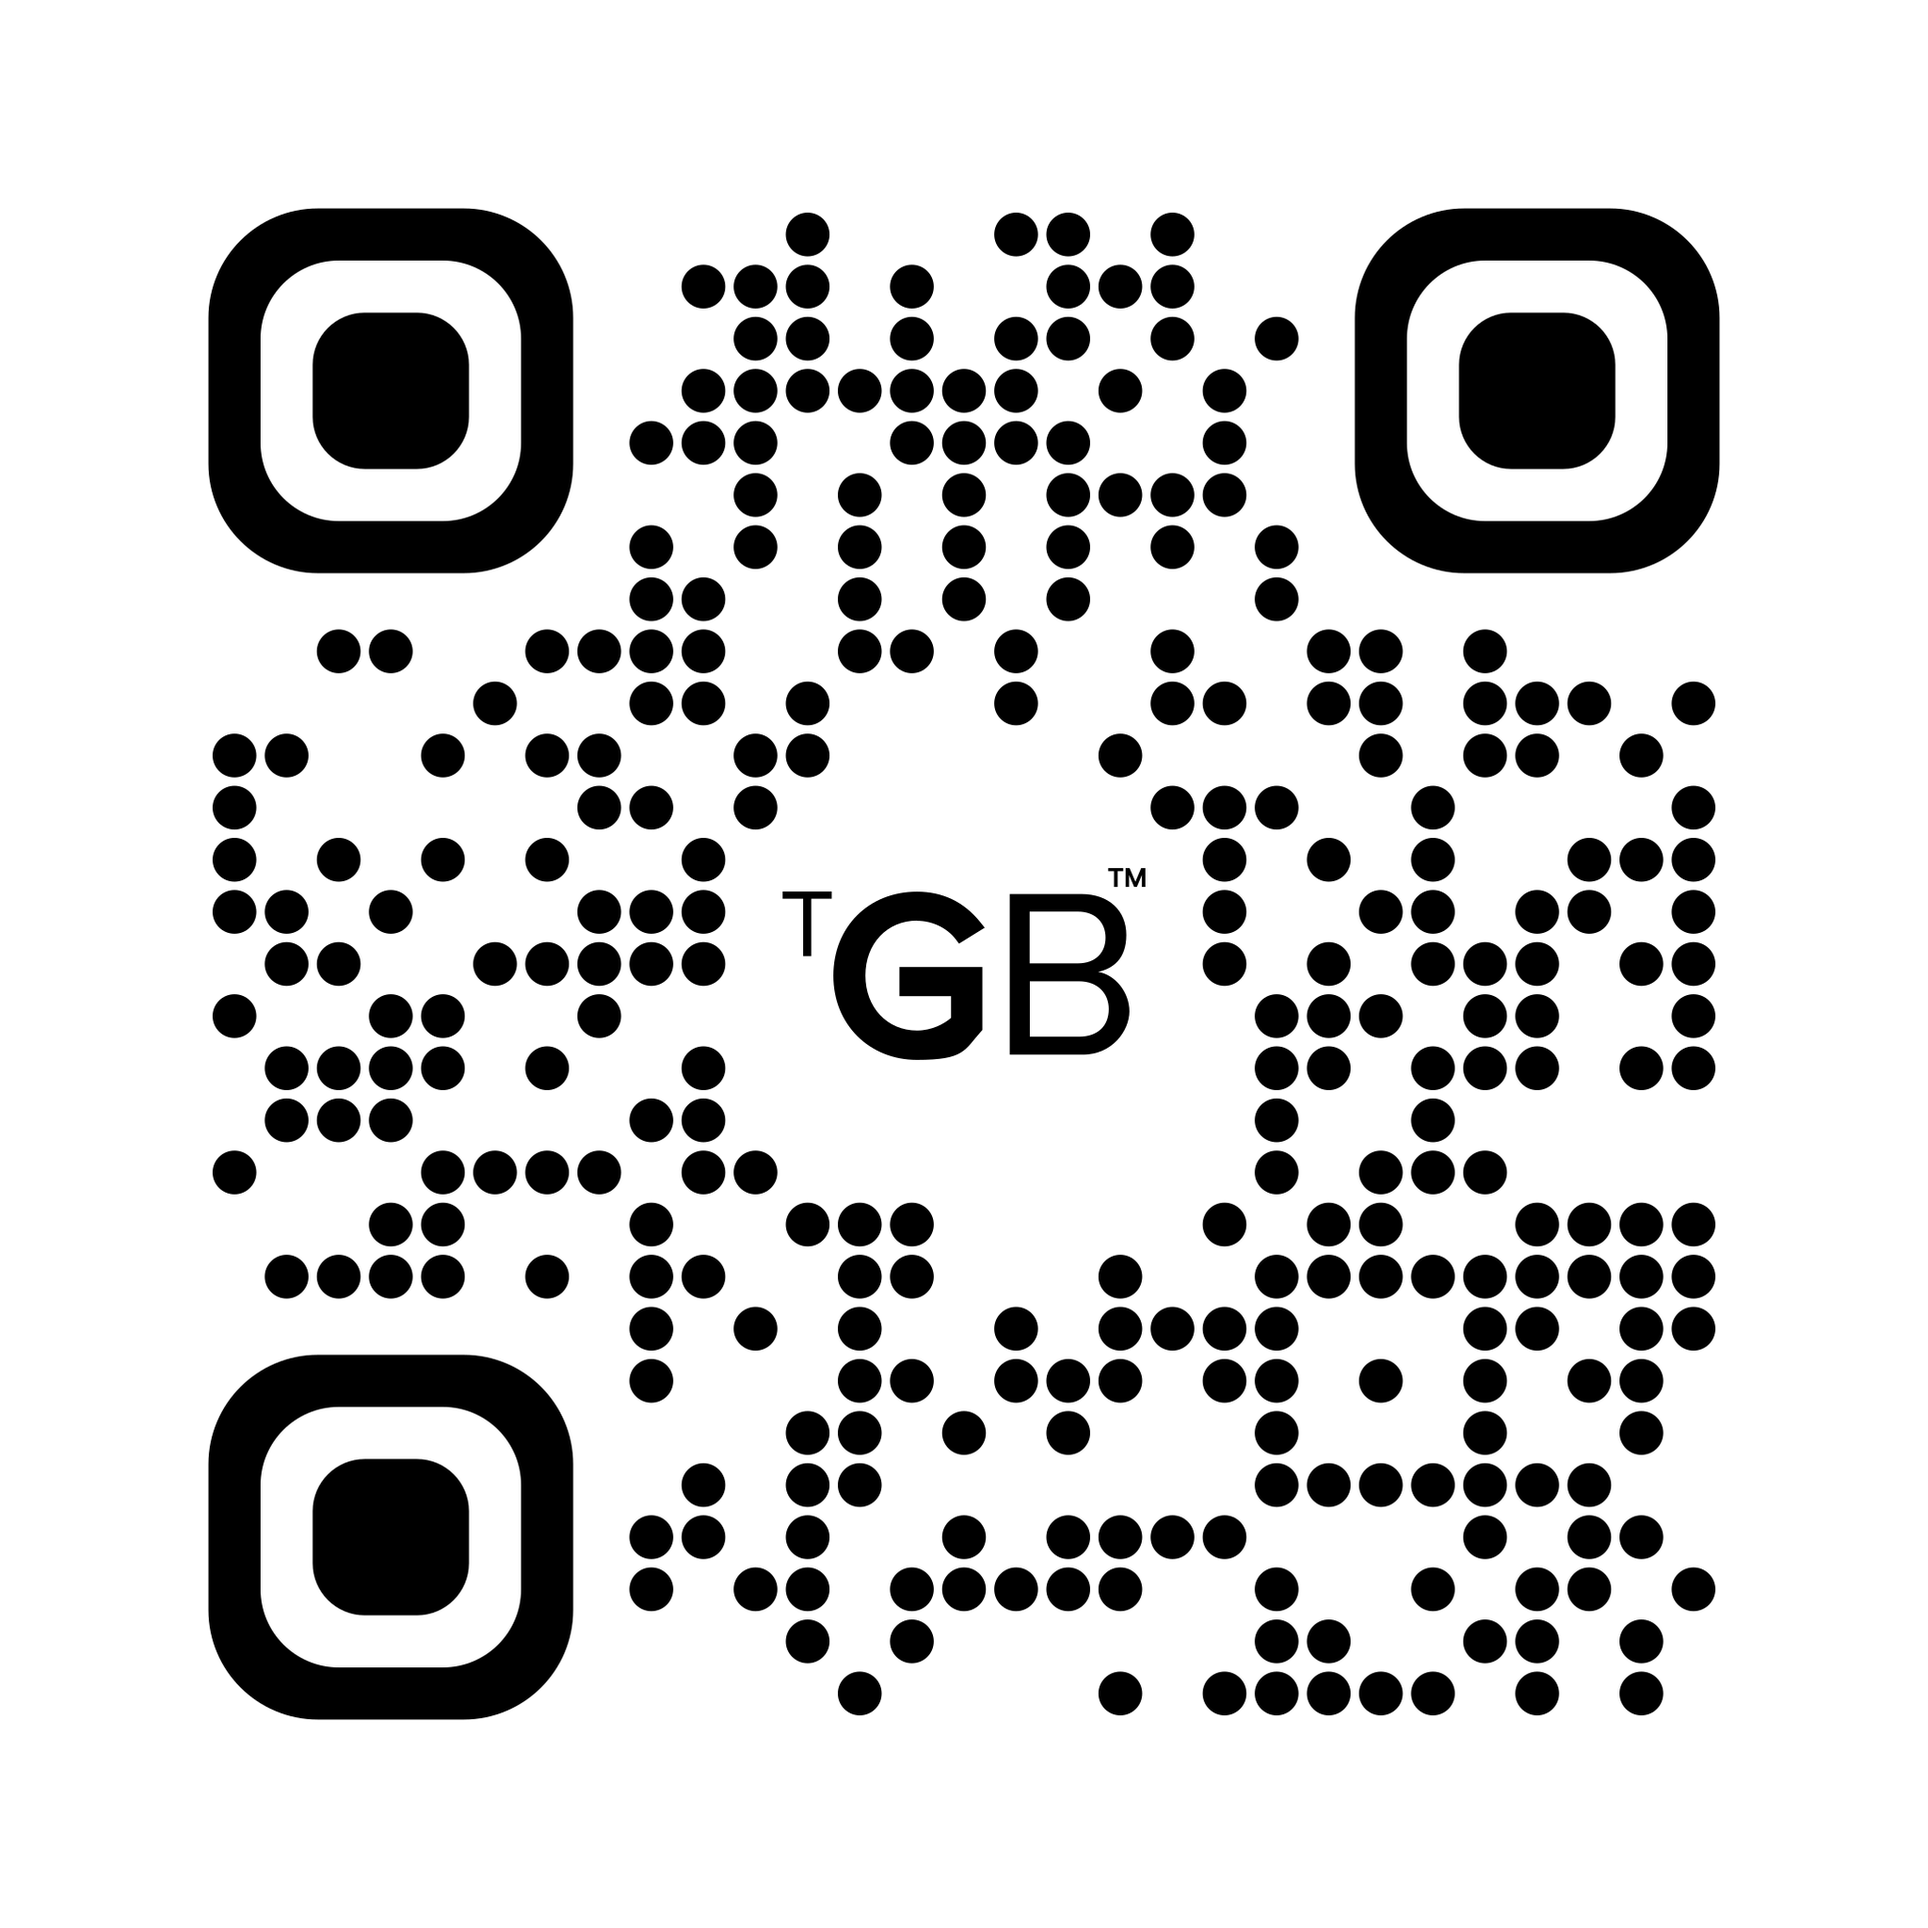
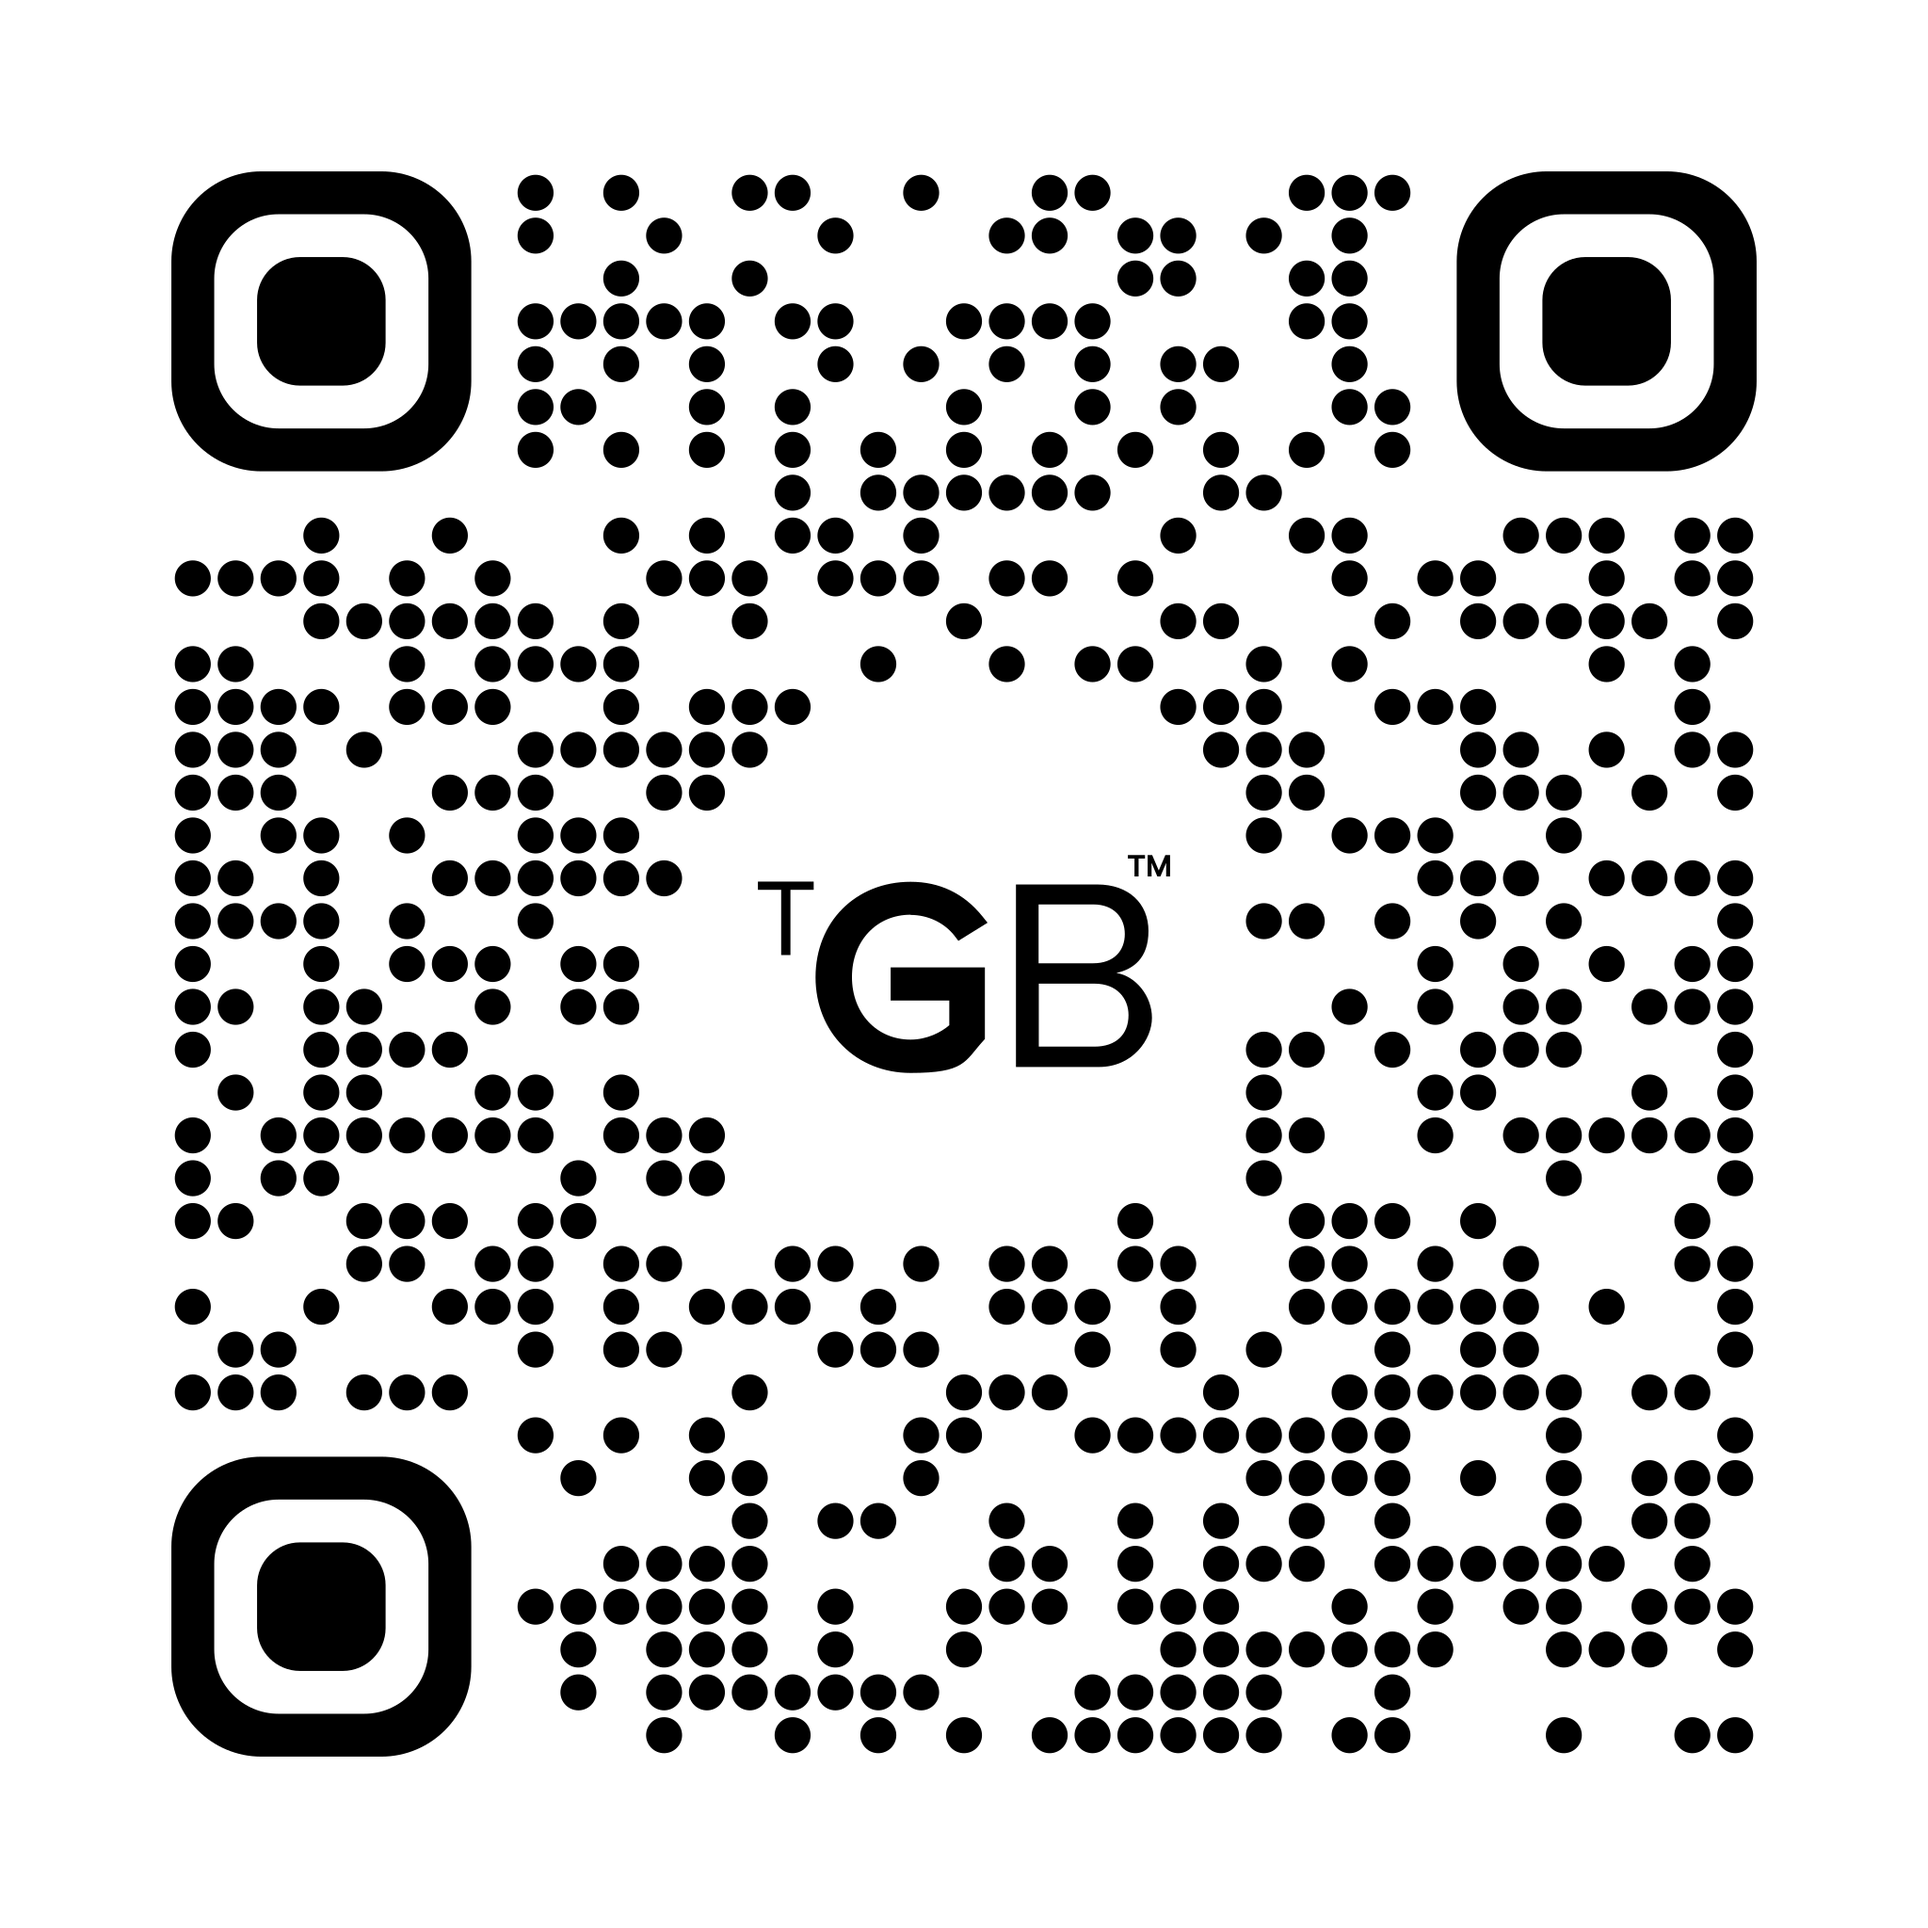
feat: point website QR at /collections/all
Re-encodes the website QR to https://thegoodbug.com/collections/all so it
lands on the shop rather than the homepage.

The longer URL moves the symbol from a 29x29 grid to 37x37, which makes
the small-grid logo tuning from the previous commit unnecessary. Restored
the standard house sizing (0.26 of grid width, pad 1.6), so all three QR
scripts now share identical geometry — cleared area is 10.9% of the
symbol, well inside what level H recovers.

Verified with ZXing: decodes to the correct URL at 2048, 512, 256, 200,
and 160 px. Protein and manufacturer QRs re-checked as controls, both
still pass.

CLAUDE.md: updated the asset row, folded the logo geometry into the
shared-design paragraph, and kept the small-grid guidance as a forward
note for any future short URL.

Changed region(s): [[0.0625, 0.0625, 0.9375, 0.9375]]

diff --git a/CLAUDE.md b/CLAUDE.md
@@ -20,14 +20,16 @@ dynamic short URL once a real domain is set.
 |---|---|---|---|
 | Manufacturer details | `scripts/gen-qr.mjs` | `public/qr-manufacturer.svg` / `.png` | `…/Manufacturer-Details-373c8079…` |
 | Protein powder | `scripts/gen-qr-protein.mjs` (`npm run qr:protein`) | `public/qr-protein.svg` / `.png` | `…/Manufacturer-details-Protein-3bfc8079…` |
-| Website (thegoodbug.com) | `scripts/gen-qr-website.mjs` (`npm run qr:website`) | `public/qr-website.svg` / `.png` | `https://thegoodbug.com/` |
+| Shop / all collections | `scripts/gen-qr-website.mjs` (`npm run qr:website`) | `public/qr-website.svg` / `.png` | `https://thegoodbug.com/collections/all` |
 
 Shared design: round data dots (r=0.42 module), rounded-square finder eyes, circular
-clear zone in the center, error correction level **H**. The protein and website QRs embed
-the real `Logo_TGB.svg` (cropped to its ink box); the older manufacturer QR uses a
-Helvetica "TGB" text wordmark. The website URL is short enough to fit a 29×29 grid, so
-that script uses a slightly smaller logo (0.24 of grid width, pad 1.0) to keep the cleared
-fraction low on the small symbol.
+clear zone in the center, error correction level **H**, logo box 0.26 of grid width with
+pad 1.6. The protein and website QRs embed the real `Logo_TGB.svg` (cropped to its ink
+box); the older manufacturer QR uses a Helvetica "TGB" text wordmark.
+
+If a URL ever gets short enough to drop to a small grid (29×29 or below), shrink the logo
+(e.g. 0.24 / pad 1.0) so the cleared circle stays a modest fraction of the symbol — the
+clear zone scales with the grid, so a fixed ratio eats proportionally more of a small one.
 
 Two gotchas when editing these scripts:
 - Only skip the three **7×7** finder squares when drawing dots. Skipping 9×9 also erases
